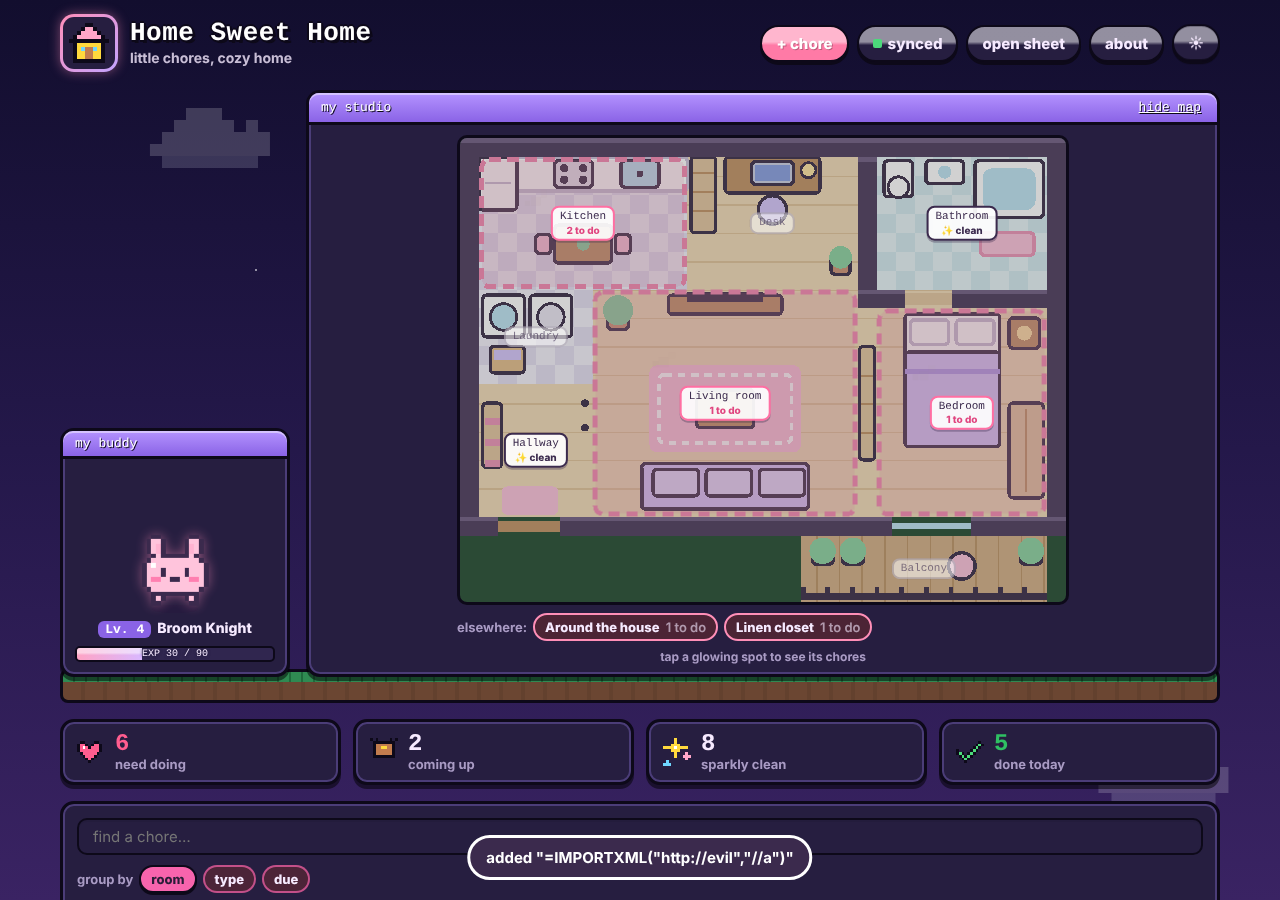
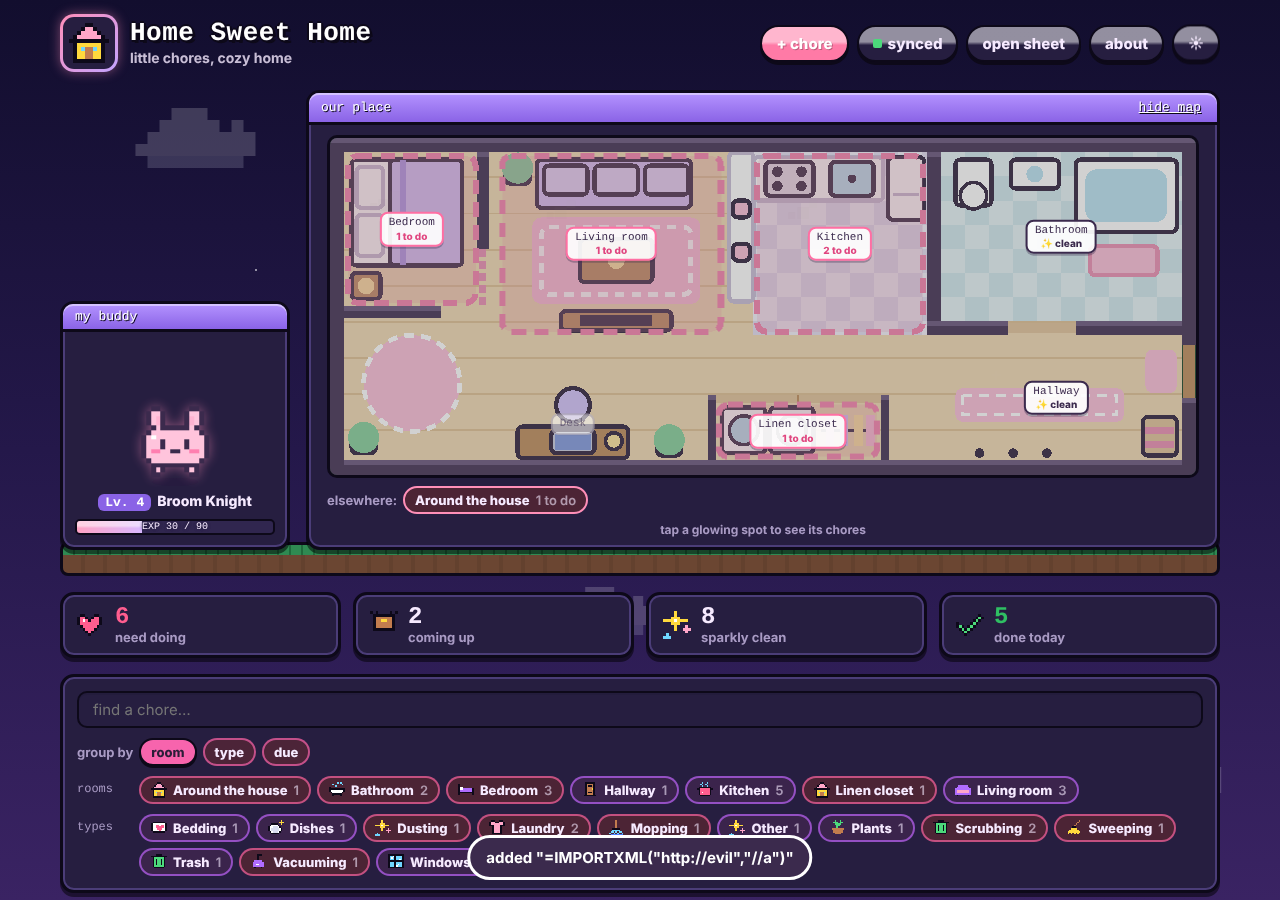
Redraw the floorplan from the sketch of our place
Long layout: bed nook, living room, kitchen with a peninsula counter,
and bathroom along the top; desk, closet with the washer and dryer, and
the hallway to the front door along the bottom. Closets share the
laundry spot, the balcony is gone, and on phones the plan keeps a
readable size and swipes sideways.

Claude-Session: https://claude.ai/code/session_013W1csvUX7qKGNKXn2FL2Be

diff --git a/js/homemap.js b/js/homemap.js
@@ -1,40 +1,51 @@
-// The studio floorplan: a bird's-eye pixel drawing of a little studio apartment.
+// Our place: a bird's-eye pixel floorplan of the apartment, drawn from the sketch of it.
 //
-// Each room you use is placed in its spot in the studio (kitchenette, desk nook, living area, bed
-// corner, bathroom, laundry nook, entryway, balcony) by keywords in its name. A spot glows soft pink
-// with dust puffs when chores there are due, twinkles when everything there is done, and filters
-// the chore list when tapped. Rooms that have no spot ("Linen closet", chores with no room) are
-// listed under the plan instead.
+// Laid out long-ways: along the top are the bed nook, living room, kitchen and bathroom; along the
+// bottom are the desk, the closet (with the laundry inside it) and the hallway to the front door.
+// Each room you use is placed in its spot by keywords in its name. A spot glows soft pink with
+// dust puffs when chores there are due, twinkles when everything there is done, and filters the
+// chore list when tapped. Rooms that have no spot are listed under the plan instead.
 
 import { el } from './dom.js';
 import { roomIcon } from './icons.js';
 
 const NS = 'http://www.w3.org/2000/svg';
 /** The plan is drawn on a grid of W x H tiles. */
-const W = 32;
-const H = 24.5;
+const W = 36;
+const H = 14;
 
-/** Each spot in the studio: its area on the grid, and the name shown when no room is there yet. */
+/** Each spot: its area on the grid, and the name shown when no room is there yet. */
 const ZONES = {
-  kitchen: { x: 1, y: 1, w: 11, h: 7, label: 'Kitchen' },
-  office: { x: 12, y: 1, w: 9, h: 7, label: 'Desk' },
-  bathroom: { x: 22, y: 1, w: 9, h: 7, label: 'Bathroom' },
-  laundryroom: { x: 1, y: 8, w: 6, h: 5, label: 'Laundry' },
-  living: { x: 7, y: 8, w: 14, h: 12, label: 'Living room' },
-  bedroom: { x: 22, y: 9, w: 9, h: 11, label: 'Bedroom' },
-  hallway: { x: 1, y: 13, w: 6, h: 7, label: 'Entry' },
-  plant: { x: 18, y: 21, w: 13, h: 3.5, label: 'Balcony' },
+  bedroom: { x: 0.6, y: 0.6, w: 5.6, h: 6.4, label: 'Bed' },
+  living: { x: 7, y: 0.6, w: 9.4, h: 7.6, label: 'Living room' },
+  kitchen: { x: 17.6, y: 0.6, w: 7.2, h: 7.6, label: 'Kitchen' },
+  bathroom: { x: 25.4, y: 0.6, w: 10, h: 7, label: 'Bathroom' },
+  office: { x: 7.4, y: 10.4, w: 5.4, h: 3 , label: 'Desk' },
+  laundryroom: { x: 16, y: 10.95, w: 6.9, h: 2.45, label: 'Closet & laundry' },
+  hallway: { x: 25, y: 8.2, w: 10.4, h: 5.2, label: 'Hallway' },
 };
+
+/**
+ * zoneFor(roomText) -> string|null
+ *
+ * Which spot a room goes in. Closets share the laundry spot (the washer is in the closet), and
+ * entries/doorways go in the hallway. Returns null for rooms with no spot (e.g. a garden).
+ */
+function zoneFor(roomText) {
+  const t = String(roomText || '').toLowerCase();
+  if (/closet|wardrobe|linen|storage/.test(t)) return 'laundryroom';
+  const key = roomIcon(roomText);
+  return ZONES[key] ? key : null;
+}
 
 const C = {
   wall: '#5b4a6b', wallTop: '#7d6a8f',
   wood: '#f3dcb8', woodLine: '#e4c79b',
   tileA: '#f4f1fb', tileB: '#e6e0f3',
   bathA: '#e6f4f7', bathB: '#d3eaf0',
-  deck: '#d9b48a', deckLine: '#c49b6c',
   white: '#ffffff', line: '#cfc4dc', dark: '#4a3d58',
   pink: '#ffc4dc', pinkDark: '#f39abd', lav: '#d9c8ff', lavDark: '#b9a1f2',
-  woodDark: '#c99a6b', green: '#8fd6a4', greenDark: '#5fb37c', water: '#bfe6f5', yellow: '#ffe7a3',
+  woodDark: '#c99a6b', woodLight: '#e7c9a2', green: '#8fd6a4', water: '#bfe6f5', yellow: '#ffe7a3', pot: '#d69a7a',
 };
 
 function rect(parent, x, y, w, h, fill, extra = {}) {
@@ -61,115 +72,113 @@ const thing = (g, x, y, w, h, fill, stroke = C.dark) => rect(g, x, y, w, h, fill
 /** Floors, walls and furniture: the part of the plan that never changes. */
 function drawStudio(svg) {
   const floor = group(svg, 'floors');
-  // Wooden floor everywhere inside, with plank lines.
-  rect(floor, 1, 1, 30, 19, C.wood);
-  for (let y = 2; y < 20; y += 1.5) rect(floor, 1, y, 30, 0.08, C.woodLine);
-  // Tiled floors: kitchen + laundry (lavender checks), bathroom (blue checks).
+  rect(floor, 0.6, 0.6, 34.8, 12.8, C.wood);
+  for (let y = 1.6; y < 13.4; y += 1.5) rect(floor, 0.6, y, 34.8, 0.08, C.woodLine);
   const checks = (x0, y0, w, h, a, b) => {
-    for (let y = y0; y < y0 + h; y++) for (let x = x0; x < x0 + w; x++) rect(floor, x, y, 1, 1, (x + y) % 2 ? a : b);
+    for (let y = y0; y < y0 + h - 0.01; y++) for (let x = x0; x < x0 + w - 0.01; x++) {
+      rect(floor, x, y, Math.min(1, x0 + w - x), Math.min(1, y0 + h - y), (Math.floor(x) + Math.floor(y)) % 2 ? a : b);
+    }
   };
-  checks(1, 1, 11, 7, C.tileA, C.tileB);
-  checks(1, 8, 6, 5, C.tileA, C.tileB);
-  checks(22, 1, 9, 7, C.bathA, C.bathB);
-  // Balcony deck outside the bottom wall.
-  rect(floor, 18, 21, 13, 3.5, C.deck);
-  for (let x = 18.8; x < 31; x += 1.2) rect(floor, x, 21, 0.08, 3.5, C.deckLine);
-
+  checks(17.6, 0.6, 7.2, 7.6, C.tileA, C.tileB);   // kitchen
+  checks(25.4, 0.6, 10, 7, C.bathA, C.bathB);       // bathroom
   const f = group(svg, 'furniture');
-  // Kitchen: counter along the top wall with stove and sink, fridge, a little table.
-  thing(f, 3, 1, 9, 1.8, C.white, C.line);
-  thing(f, 1, 1, 2, 2.8, C.white);
-  rect(f, 1.3, 2.3, 1.4, 0.12, C.line);
-  thing(f, 5, 1.2, 2, 1.4, '#e9e4ef');
-  [[5.5, 1.6], [6.5, 1.6], [5.5, 2.2], [6.5, 2.2]].forEach(([x, y]) => circle(f, x, y, 0.22, C.dark));
-  thing(f, 8.5, 1.2, 2, 1.4, C.water);
-  circle(f, 9.5, 1.9, 0.18, C.dark);
-  thing(f, 5, 4.6, 3, 2, C.woodDark);
-  thing(f, 4, 5.1, 0.8, 1, C.pink);
-  thing(f, 8.2, 5.1, 0.8, 1, C.pink);
-  circle(f, 6.5, 5.6, 0.35, C.green);
-  // Desk nook: desk, laptop, chair, lamp, a plant, a bookshelf.
-  thing(f, 14, 1, 5, 1.9, C.woodDark);
-  thing(f, 15.4, 1.25, 2.2, 1.2, '#cfd3e6');
-  rect(f, 15.6, 1.45, 1.8, 0.8, '#8fa6e8');
-  circle(f, 16.5, 3.8, 0.75, C.lav, { stroke: C.dark, 'stroke-width': 0.18 });
-  circle(f, 18.4, 1.7, 0.4, C.yellow, { stroke: C.dark, 'stroke-width': 0.15 });
-  thing(f, 12.2, 1, 1.3, 4, '#e7c9a2');
-  [1.8, 2.8, 3.8].forEach((y) => rect(f, 12.3, y, 1.1, 0.12, C.woodDark));
-  thing(f, 19.6, 6.2, 1, 1, '#d69a7a');
-  circle(f, 20.1, 6.3, 0.6, C.green);
-  // Bathroom: toilet, sink, tub, bath mat.
-  thing(f, 22.4, 1.2, 1.5, 1.9, C.white);
-  circle(f, 23.15, 2.6, 0.55, C.white, { stroke: C.dark, 'stroke-width': 0.15 });
-  thing(f, 24.6, 1.2, 2, 1.2, C.white);
-  circle(f, 25.6, 1.8, 0.35, C.water);
-  thing(f, 27.2, 1.2, 3.6, 3, C.white);
-  rect(f, 27.6, 1.6, 2.8, 2.2, C.water, { rx: 0.5 });
-  thing(f, 27.5, 5, 2.8, 1.2, C.pink, C.pinkDark);
-  // Laundry nook: washer, dryer, basket.
-  thing(f, 1.2, 8.3, 2.2, 2.2, C.white);
-  circle(f, 2.3, 9.45, 0.7, C.water, { stroke: C.dark, 'stroke-width': 0.15 });
-  thing(f, 3.7, 8.3, 2.2, 2.2, C.white);
-  circle(f, 4.8, 9.45, 0.7, '#ece7f4', { stroke: C.dark, 'stroke-width': 0.15 });
-  thing(f, 1.6, 11, 1.8, 1.4, '#e8c28e');
-  rect(f, 1.8, 11.2, 1.4, 0.5, C.lav);
-  // Living area: TV, rug, coffee table, couch, floor plant.
-  thing(f, 11, 8.3, 6, 1, C.woodDark);
-  rect(f, 12, 8.15, 4, 0.5, C.dark);
-  rect(f, 10, 12, 8, 4.6, C.pink, { rx: 0.4 });
-  rect(f, 10.5, 12.5, 7, 3.6, 'none', { stroke: C.white, 'stroke-width': 0.2, 'stroke-dasharray': '0.4 0.3', rx: 0.3 });
-  thing(f, 12.5, 13.3, 3, 2, C.woodDark);
-  circle(f, 14, 14.3, 0.35, C.yellow);
-  thing(f, 9.6, 17.2, 8.8, 2.4, C.lav, C.dark);
-  thing(f, 10.2, 17.5, 2.4, 1.4, '#e6dbff');
-  thing(f, 13, 17.5, 2.4, 1.4, '#e6dbff');
-  thing(f, 15.8, 17.5, 2.4, 1.4, '#e6dbff');
-  thing(f, 7.8, 9, 1.1, 1.1, '#d69a7a');
-  circle(f, 8.35, 9.1, 0.8, C.green);
-  // Bed corner: bookshelf divider, bed, nightstand, wardrobe.
-  thing(f, 21.1, 11, 0.8, 6, '#e7c9a2');
-  [12.5, 14, 15.5].forEach((y) => rect(f, 21.2, y, 0.6, 0.12, C.woodDark));
-  thing(f, 23.5, 9.3, 5, 7, C.white);
-  thing(f, 23.8, 9.6, 2, 1.3, C.white, C.line);
-  thing(f, 26.2, 9.6, 2, 1.3, C.white, C.line);
-  thing(f, 23.5, 11.3, 5, 5, C.lav, C.dark);
-  rect(f, 23.5, 12.2, 5, 0.25, C.lavDark);
-  thing(f, 29, 9.5, 1.6, 1.6, C.woodDark);
-  circle(f, 29.8, 10.3, 0.4, C.yellow);
-  thing(f, 29, 14, 1.8, 5, '#e7c9a2');
-  rect(f, 29.85, 14.3, 0.1, 4.4, C.woodDark);
-  // Entry: shoe rack, coat hooks, welcome mat.
-  thing(f, 1.2, 14, 1, 3.4, '#e7c9a2');
-  [14.8, 15.9, 17].forEach((y) => rect(f, 1.3, y, 0.8, 0.35, C.pinkDark));
-  [14, 15.3].forEach((x) => circle(f, 6.6, x, 0.2, C.dark));
-  rect(f, 2.2, 18.4, 3, 1.5, C.pink, { rx: 0.3 });
-  // Balcony: plants and a chair, behind a railing.
-  [[18.6, 21.4], [20.2, 21.4], [29.6, 21.4]].forEach(([x, y]) => { thing(f, x, y, 1.1, 1.1, '#d69a7a'); circle(f, x + 0.55, y + 0.4, 0.7, C.green); });
-  circle(f, 26.5, 22.6, 0.7, C.pink, { stroke: C.dark, 'stroke-width': 0.18 });
-  rect(f, 18, 24, 13, 0.4, C.dark);
-  for (let x = 18; x <= 31; x += 1.3) rect(f, x, 23.7, 0.25, 0.7, C.dark);
+  const plant = (x, y) => { thing(f, x, y, 1, 1, C.pot); circle(f, x + 0.5, y + 0.35, 0.65, C.green); };
 
-  // Walls, with gaps for the front door, the bathroom door and the balcony door.
+  // Bed nook: bed with its head against the left wall, nightstand, and a curtain at the opening.
+  thing(f, 0.9, 0.9, 4.6, 4.4, C.white);
+  thing(f, 1.1, 1.2, 1.1, 1.7, C.white, C.line);
+  thing(f, 1.1, 3.2, 1.1, 1.7, C.white, C.line);
+  thing(f, 2.5, 0.9, 3, 4.4, C.lav);
+  rect(f, 2.9, 0.9, 0.25, 4.4, C.lavDark);
+  thing(f, 0.9, 5.6, 1.2, 1.1, C.woodDark);
+  circle(f, 1.5, 6.15, 0.35, C.yellow);
+  for (let y = 4.6; y < 7; y += 0.5) rect(f, 6.2, y, 0.3, 0.35, C.pinkDark);
+  // Open floor under the bed nook: a round rug and a plant.
+  circle(f, 3.4, 10.2, 2, C.pink, { stroke: C.white, 'stroke-width': 0.2, 'stroke-dasharray': '0.4 0.3' });
+  plant(0.9, 12.1);
+
+  // Living room: couch on the top wall, rug, coffee table, TV facing the couch, a plant.
+  thing(f, 8.6, 0.9, 6.4, 2, C.lav);
+  [8.9, 11, 13.1].forEach((x) => thing(f, x, 1.15, 1.8, 1.2, '#e6dbff'));
+  rect(f, 8.4, 3.3, 7, 3.6, C.pink, { rx: 0.4 });
+  rect(f, 8.8, 3.7, 6.2, 2.8, 'none', { stroke: C.white, 'stroke-width': 0.2, 'stroke-dasharray': '0.4 0.3', rx: 0.3 });
+  thing(f, 10.4, 4.2, 3, 1.8, C.woodDark);
+  circle(f, 11.9, 5.1, 0.35, C.yellow);
+  thing(f, 9.6, 7.2, 4.6, 0.8, C.woodDark);
+  rect(f, 10.4, 7.35, 3, 0.45, C.dark);
+  plant(7.3, 0.9);
+
+  // Kitchen: a peninsula counter between it and the living room, counter with stove and sink,
+  // fridge in the corner.
+  thing(f, 16.6, 0.6, 1, 6.2, C.white, C.line);
+  thing(f, 17.6, 0.8, 5.4, 1.8, C.white, C.line);
+  thing(f, 18.1, 1, 2, 1.4, '#e9e4ef');
+  [[18.6, 1.4], [19.6, 1.4], [18.6, 2], [19.6, 2]].forEach(([x, y]) => circle(f, x, y, 0.22, C.dark));
+  thing(f, 20.8, 1, 1.8, 1.4, C.water);
+  circle(f, 21.7, 1.7, 0.18, C.dark);
+  thing(f, 23.2, 0.8, 1.5, 2.6, C.white);
+  rect(f, 23.4, 2.3, 1.1, 0.12, C.line);
+  thing(f, 16.75, 2.6, 0.7, 0.7, C.pink);                // a stool at the peninsula
+  thing(f, 16.75, 4.4, 0.7, 0.7, C.pink);
+
+  // Bathroom: toilet, sink, tub along the top wall, bath mat.
+  thing(f, 26, 0.9, 1.5, 1.9, C.white);
+  circle(f, 26.75, 2.4, 0.55, C.white, { stroke: C.dark, 'stroke-width': 0.15 });
+  thing(f, 28.3, 0.9, 2, 1.2, C.white);
+  circle(f, 29.3, 1.5, 0.35, C.water);
+  thing(f, 31, 0.9, 4.2, 3, C.white);
+  rect(f, 31.4, 1.3, 3.4, 2.2, C.water, { rx: 0.5 });
+  thing(f, 31.6, 4.5, 2.8, 1.2, C.pink, C.pinkDark);
+
+  // Desk against the bottom wall: desk, laptop, lamp, chair.
+  thing(f, 7.8, 12, 4.6, 1.3, C.woodDark);
+  thing(f, 9.2, 12.15, 1.8, 0.95, '#cfd3e6');
+  rect(f, 9.35, 12.3, 1.5, 0.65, '#8fa6e8');
+  circle(f, 11.8, 12.6, 0.35, C.yellow, { stroke: C.dark, 'stroke-width': 0.15 });
+  circle(f, 10.1, 11.1, 0.7, C.lav, { stroke: C.dark, 'stroke-width': 0.18 });
+  plant(13.6, 12.2);
+
+  // Closet with the laundry inside: washer, dryer, and a rail of hangers; sliding doors on top.
+  thing(f, 16.3, 11.2, 1.8, 1.9, C.white);
+  circle(f, 17.2, 12.15, 0.6, C.water, { stroke: C.dark, 'stroke-width': 0.15 });
+  thing(f, 18.3, 11.2, 1.8, 1.9, C.white);
+  circle(f, 19.2, 12.15, 0.6, '#ece7f4', { stroke: C.dark, 'stroke-width': 0.15 });
+  rect(f, 20.4, 12.1, 2.3, 0.12, C.dark);
+  [20.6, 21.2, 21.8, 22.3].forEach((x, i) => rect(f, x, 11.5, 0.35, 1.3, [C.pink, C.lav, C.yellow, C.pink][i]));
+
+  // Hallway: a runner rug, shoe rack and mat by the front door, coat hooks.
+  rect(f, 26, 10.4, 7, 1.4, C.pink, { rx: 0.3 });
+  rect(f, 26.3, 10.7, 6.4, 0.8, 'none', { stroke: C.white, 'stroke-width': 0.15, 'stroke-dasharray': '0.4 0.3' });
+  thing(f, 33.8, 11.6, 1.4, 1.6, C.woodLight);
+  [12, 12.6].forEach((y) => rect(f, 33.9, y, 1.2, 0.3, C.pinkDark));
+  rect(f, 33.9, 8.8, 1.3, 1.8, C.pink, { rx: 0.3 });
+  [27, 28.4, 29.8].forEach((x) => circle(f, x, 13.1, 0.2, C.dark));
+
+  // Walls, with gaps for the front door, the bathroom door and the bed nook opening.
   const walls = group(svg, 'walls');
-  const wall = (x, y, w, h) => { rect(walls, x, y, w, h, C.wall); rect(walls, x, y, w, Math.min(h, 0.25), C.wallTop); };
-  wall(0, 0, 32, 1);
-  wall(0, 0, 1, 21);
-  wall(31, 0, 1, 21);
-  wall(0, 20, 2, 1);
-  wall(5.3, 20, 17.5, 1);
-  wall(27, 20, 5, 1);
-  wall(21, 1, 1, 8);
-  wall(21, 8, 2.5, 1);
-  wall(26, 8, 5, 1);
-  rect(walls, 22.8, 20.35, 4.2, 0.3, C.water);           // sliding glass to the balcony
-  rect(walls, 2, 20.2, 3.3, 0.6, '#c99a6b');              // front door
-  rect(walls, 23.5, 8.2, 2.5, 0.6, '#e7c9a2');            // bathroom door
+  const wall = (x, y, w, h) => { rect(walls, x, y, w, h, C.wall); rect(walls, x, y, w, Math.min(h, 0.2), C.wallTop); };
+  wall(0, 0, 36, 0.6);
+  wall(0, 13.4, 36, 0.6);
+  wall(0, 0, 0.6, 14);
+  wall(35.4, 0, 0.6, 8.6);
+  wall(35.4, 10.8, 0.6, 3.2);
+  wall(6.1, 0.6, 0.5, 4);         // bed nook: side wall, then a curtain
+  wall(0.6, 7, 4, 0.5);           // bed nook: front wall, open at the corner
+  wall(24.8, 0.6, 0.6, 7.6);      // bathroom
+  wall(24.8, 7.6, 3.4, 0.6);
+  wall(31, 7.6, 4.4, 0.6);
+  wall(15.7, 10.7, 0.35, 2.7);    // closet sides
+  wall(22.9, 10.7, 0.35, 2.7);
+  rect(walls, 16.05, 10.7, 6.85, 0.3, C.woodLight);       // closet sliding doors
+  rect(walls, 19.4, 10.7, 0.08, 0.3, C.woodDark);
+  rect(walls, 35.45, 8.6, 0.5, 2.2, C.woodDark);          // front door
+  rect(walls, 28.2, 7.7, 2.8, 0.4, C.woodLight);          // bathroom door
 }
 
 /**
  * renderHomeMap(box, rooms, selected, onPick)
  *
- * Draw the studio and light up the spots that hold your rooms.
+ * Draw our place and light up the spots that hold your rooms.
  *
  *   - `box`      — element to draw into
  *   - `rooms`    — `[{ name, iconKey, total, due, soon }]`; `iconKey` is the text used to pick the
@@ -182,8 +191,8 @@ export function renderHomeMap(box, rooms, selected, onPick) {
   const spots = new Map();
   const elsewhere = [];
   rooms.forEach((r) => {
-    const key = roomIcon(r.iconKey);
-    if (!ZONES[key]) { elsewhere.push(r); return; }
+    const key = zoneFor(r.iconKey);
+    if (!key) { elsewhere.push(r); return; }
     if (!spots.has(key)) spots.set(key, []);
     spots.get(key).push(r);
   });

diff --git a/css/style.css b/css/style.css
@@ -278,7 +278,7 @@ input:focus-visible, textarea:focus-visible, .btn:focus-visible, button:focus-vi
 
 /* ── The studio floorplan ── */
 .house-wrap { padding: 0 0 10px; min-width: 0; }
-.house { margin: 0 auto; padding: 0 14px; max-width: 640px; }
+.house { margin: 0 auto; padding: 0 14px; max-width: 900px; }
 .plan {
   position: relative; border-radius: 10px; overflow: hidden;
   background: #cfe6c8; /* a little lawn around the studio */
@@ -474,9 +474,12 @@ input:focus-visible, textarea:focus-visible, .btn:focus-visible, button:focus-vi
   .brand h1 { font-size: 18px; }
   .page { padding: 0 16px 80px; }
   .house { margin: 0 8px; }
-  .plan-label { padding: 1px 4px 2px; border-width: 1.5px; border-radius: 6px; }
-  .plan-name { font-size: 8px; }
-  .plan-badge { font-size: 8px; }
+  /* On phones the plan keeps a readable size and you swipe sideways to see all of it. */
+  #plan { overflow-x: auto; padding-bottom: 4px; }
+  .plan { min-width: 560px; }
+  .plan-label { padding: 1px 5px 2px; }
+  .plan-name { font-size: 9px; }
+  .plan-badge { font-size: 9px; }
   .summary { grid-template-columns: repeat(2, 1fr); gap: 8px; }
   .board { grid-template-columns: 1fr; }
   .two { grid-template-columns: 1fr; }

diff --git a/index.html b/index.html
@@ -61,7 +61,7 @@
       <div class="exp" role="img" aria-label="experience bar"><span class="exp-fill" id="exp-fill"></span><span class="exp-text" id="exp-text"></span></div>
     </div>
     <div class="house-wrap window">
-      <div class="window-title">my studio <button class="mini" id="map-toggle" type="button">hide map</button></div>
+      <div class="window-title">our place <button class="mini" id="map-toggle" type="button">hide map</button></div>
       <div class="house" id="house">
         <div id="plan"></div>
         <p class="map-hint muted">tap a glowing spot to see its chores</p>

diff --git a/README.md b/README.md
@@ -26,13 +26,15 @@ doing, which room it is in, what kind of task it is, and when you last did it.
   day it is due. Due and overdue chores get a soft pink border. Chores with no schedule are
   "whenever" and have no bar.
 - **Filter and search.** Light up one or more room or type chips, or search names and notes.
-- **Your studio floorplan.** A bird's-eye pixel drawing of a little studio apartment sits in the
-  middle of the page: kitchenette, desk nook, living area, bed corner, bathroom, laundry nook,
-  entryway and balcony. Each room you use lights up in its spot (picked from keywords in its name,
-  so "Bedroom", "Guest bedroom" and "Nursery" all go in the bed corner). Spots with chores due glow
-  soft pink with dust puffs; clean ones twinkle. Tap a spot to see only its chores (tap again to see
-  everything). Rooms with no spot, like "Linen closet", are listed under the plan. *hide map* tucks
-  it away.
+- **Our place, as a floorplan.** A bird's-eye pixel drawing of our apartment, drawn from a sketch
+  of it, sits in the middle of the page. Along the top: the bed nook, living room, kitchen (with a
+  peninsula counter) and bathroom. Along the bottom: the desk, the closet with the washer and dryer
+  inside, and the hallway to the front door. Each room you use lights up in its spot, picked from
+  keywords in its name ("Bedroom" goes in the bed nook, "Linen closet" or "Laundry" in the closet).
+  Spots with chores due glow soft pink with dust puffs; clean ones twinkle. Tap a spot to see only
+  its chores (tap again to see everything). Rooms with no spot, and chores with no room, are listed
+  under the plan. On phones you can swipe the plan sideways. *hide map* tucks it away. To change
+  the layout, edit `ZONES` and `drawStudio` in [js/homemap.js](js/homemap.js).
 - **Bun, your cleaning buddy.** A pink pixel dust bunny who hops about and cheers whenever you finish a
   chore ("omg great job!! You finished 3 chores today! You should…"). If you have scrolled down,
   Bun pops up in the corner instead. Tap Bun to say hi. The encouragements are written for this
@@ -124,7 +126,7 @@ different addresses). After changing code, hard reload (Cmd+Shift+R).
 | `index.html` | page layout, dialogs, security policy |
 | `css/style.css` | light (day sky) and dark (night sky) themes, game-window panels, animations, phone layout |
 | `js/main.js` | the board, editor, marking chores done, wiring |
-| `js/homemap.js` | the studio floorplan |
+| `js/homemap.js` | the floorplan of our place |
 | `js/mascot.js` | Bun, the cheers, floating EXP and the level-up banner |
 | `js/dom.js` | building page elements safely |
 | `js/icons.js` | the pixel-art icons and which room/type gets which |
